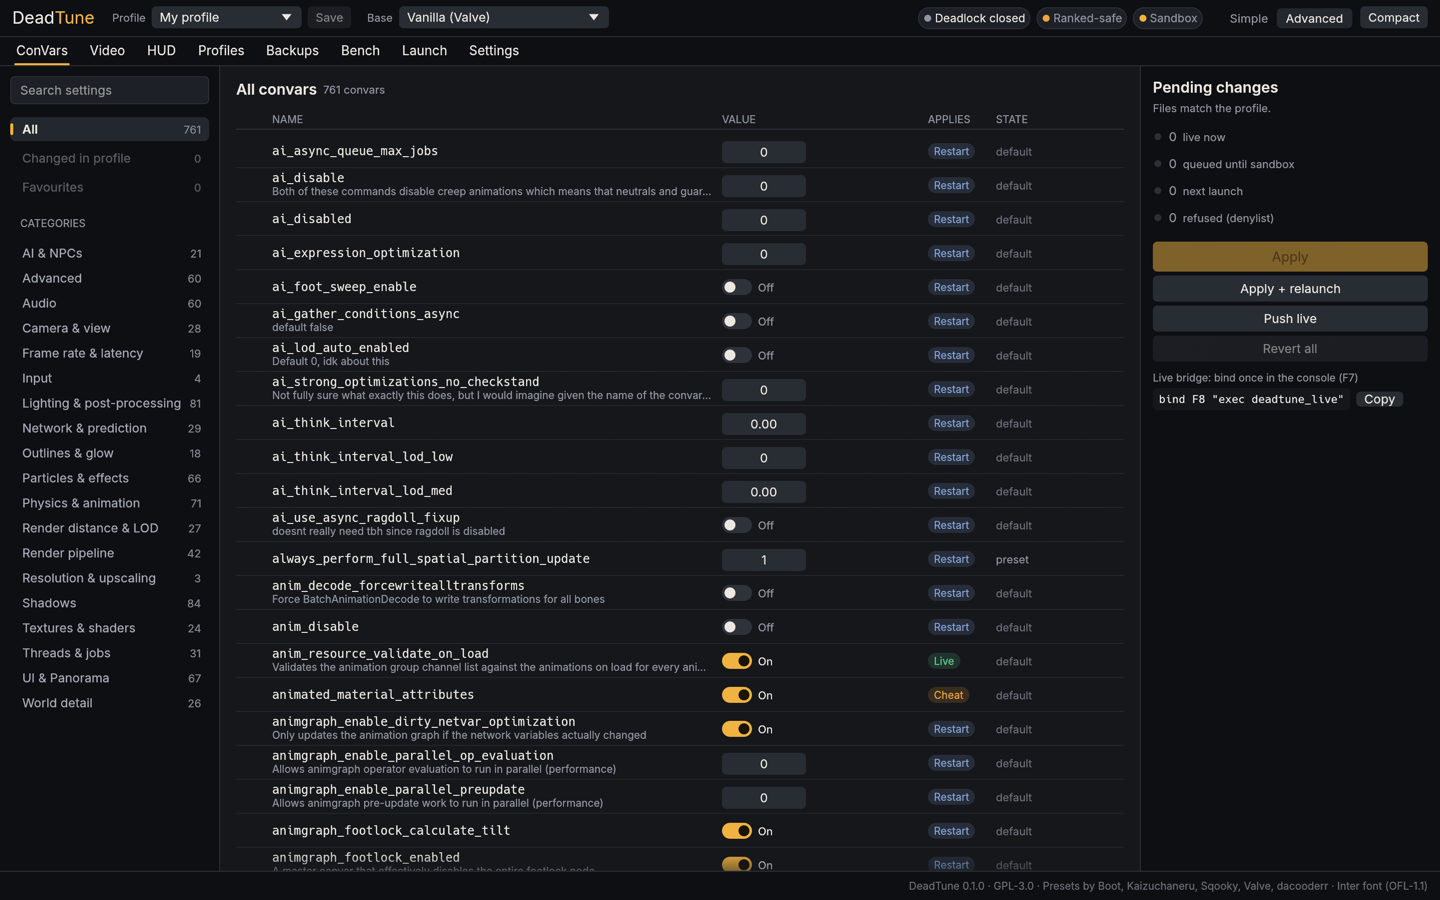
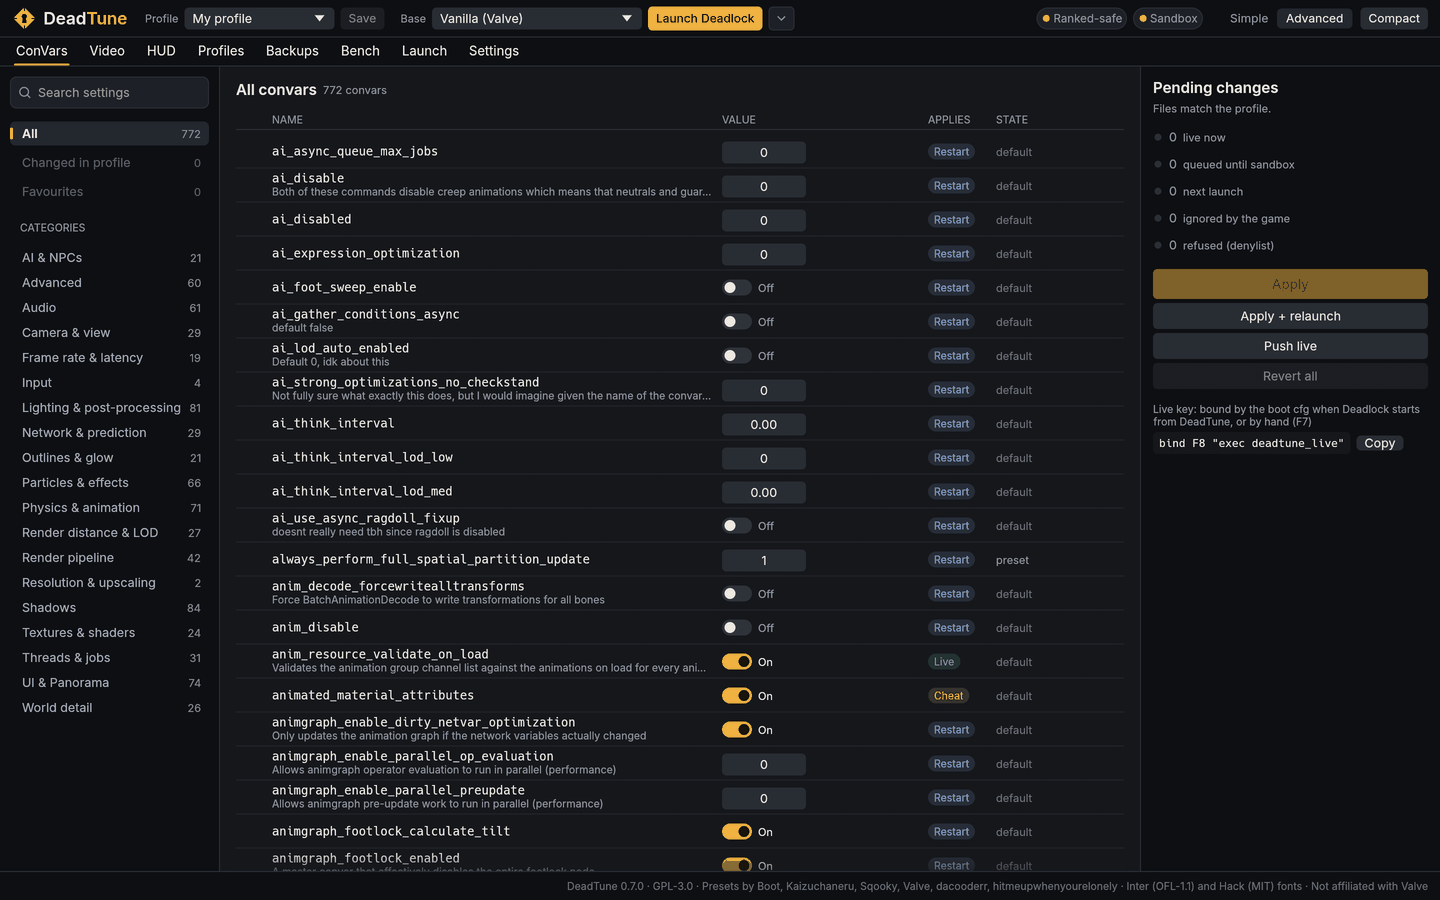
README for v0.7.0: new screenshots and every new feature
Retook all screenshots at 1440x900 (palette PNGs, about a third of the
old size) and added the Top bar, Minimap, Health bar, Addons and System
check pages. The text now covers SideLock, practice mode, the camera
and field of view card, launch options, the Top bar, Minimap (marker
sizes, apples and tunnels) and Health bar pages, the texture
downscaler, safe mode, System check, self-update, current counts and
download size, and credits the HUD ideas' authors.

The fake game archive now carries the HUD and health stylesheets, so
the HUD pages build on a fake install. testing-windows.md: section
numbers in order again after merges.

diff --git a/crates/dt-core/examples/fake_pak01.rs b/crates/dt-core/examples/fake_pak01.rs
@@ -3,7 +3,8 @@
 //! Sqooky's pak97 copied it, the game's empty particle, the Sinner's Sacrifice mask and
 //! model in their stock layout (made from the upstream pak like the unit tests do), a
 //! 512 px stand-in for the scope overlay, and the top bar's and minimap's stylesheets and
-//! layouts (the HUD stylesheet standing in for both stylesheets).
+//! layouts, and the HUD and health stylesheets (the HUD stylesheet standing in for every
+//! stylesheet).
 //!
 //! cargo run -p dt-core --example fake_pak01 -- <out pak01_dir.vpk>
 
@@ -13,6 +14,8 @@ use std::path::{Path, PathBuf};
 
 use dt_core::addons::{native_blur, native_particles, native_scope, native_sinner};
 use dt_core::hud::apples_tunnels::MINIMAP_LAYOUT;
+use dt_core::hud::elements::HUD_STYLE;
+use dt_core::hud::health_style::{HEALTH_CONTAINER_STYLE, HEALTH_STYLE};
 use dt_core::hud::minimap_colors::MINIMAP_STYLE;
 use dt_core::hud::resource::Resource;
 use dt_core::hud::topbar::{TOP_BAR_LAYOUT, TOP_BAR_STYLE};
@@ -120,6 +123,13 @@ fn main() -> Result<(), Box<dyn Error>> {
             std::fs::read(here("tests/fixtures/hud/hud_minimap_vanilla.vxml_c"))?,
         ),
     ]);
+    let mut files = files;
+    for style in [HUD_STYLE, HEALTH_STYLE, HEALTH_CONTAINER_STYLE] {
+        files.insert(
+            style.to_string(),
+            std::fs::read(here("tests/fixtures/hud/hud_vanilla.vcss_c"))?,
+        );
+    }
     std::fs::write(&out, vpk::write(&files))?;
     eprintln!("wrote {out} with {} entries", files.len());
     Ok(())

diff --git a/README.md b/README.md
@@ -9,10 +9,10 @@
 [![Platforms](https://img.shields.io/badge/platforms-Windows%20%7C%20Linux%20%7C%20Steam%20Deck-informational.svg)](#install)
 [![UI: egui](https://img.shields.io/badge/ui-egui%200.36-8A2BE2.svg)](https://github.com/emilk/egui)
 [![No injection](https://img.shields.io/badge/game%20process-untouched-success.svg)](#safety-first)
-[![Download 4.7 MB](https://img.shields.io/badge/download-4.7%20MB-lightgrey.svg)](#install)
+[![Download 6.2 MB](https://img.shields.io/badge/download-6.2%20MB-lightgrey.svg)](#install)
 [![Status: alpha](https://img.shields.io/badge/status-alpha-yellow.svg)](#status)
 
-<img src="docs/images/overview.png" alt="DeadTune overview: pick a preset, adjust the biggest FPS levers, apply" width="900">
+<img src="docs/images/overview.png" alt="DeadTune overview: pick a goal or preset, adjust the biggest FPS levers and the field of view, apply" width="900">
 
 </div>
 
@@ -28,19 +28,21 @@ DeadTune turns that into an app:
 - **See what each setting does** and what it costs, in plain words.
 - **Apply in one click.** Your original files are backed up first, and one more click puts everything back.
 - **Keep your setup after game updates.** DeadTune notices when Steam overwrites your config and offers to re-apply it.
-- **Move and resize the HUD**, which no ConVar can do.
+- **Make the HUD yours**: move and resize it, restyle the top bar, minimap and health bar. No ConVar can do that.
+- **Check your PC** for the Windows settings that quietly cost FPS.
 
 ## Features
 
 ### Performance tuning
 
-- **Eight community presets** to start from: Vanilla, Sqooky, Kaizuchaneru minimum spec and extreme low, Boot max FPS, OptiLock recommended and potato. Authors are credited in the app.
-- **Simple view** grouped the way players think: Display, Shadows, Lighting and effects, World detail, Performance. The biggest FPS wins sit on the Overview page.
-- **Advanced view** with every one of the **761 catalogued ConVars**, searchable, with type-aware controls, defaults, preset values and an impact rating.
+- **Nine community presets** to start from: Vanilla, Sqooky (stable and testing), Kaizuchaneru minimum spec and extreme low, Boot max FPS, OptiLock recommended and potato, and SideLock. Authors are credited in the app. SideLock's licence doesn't allow shipping it, so DeadTune downloads the author's file from GameBanana and checks it against a pinned hash.
+- **Simple view** grouped the way players think: Display, Shadows, Lighting and effects, World detail, Performance. The biggest FPS wins sit on the Overview page, next to a **Camera and field of view** card (field of view and wide view).
+- **Practice mode** for bots, sandbox and unranked: since the September 2026 update the game ignores the big shadow and fog ConVars in `gameinfo.gi`, so practice mode turns shadows, fog and batching down in the `SceneSystem` section instead, the way SideLock does. Matchmaking may refuse to queue while it is on; Ranked-safe mode puts the stock values back in one click.
+- **Advanced view** with every one of the **772 catalogued ConVars**, searchable, with type-aware controls, defaults, preset values and an impact rating.
 - **Honest apply classes.** Each setting is tagged *live*, *live in sandbox*, *needs restart* or *ignored* (the game no longer reads it from `gameinfo.gi`), so you know when a change takes effect and whether it does anything.
 - **Profiles** stored as small TOML files. Import and export Sqooky's `overrides.gi` format, so you can switch between his updater and DeadTune.
 
-### HUD editor
+### HUD, top bar, minimap and health bar
 
 <img src="docs/images/hud.png" alt="HUD editor: drag the minimap, top bar, ability and item slots on a preview" width="900">
 
@@ -51,6 +53,18 @@ DeadTune turns that into an app:
 - **Conflict warnings** when another HUD mod (QoL Lite, QoL Lock) replaces the same file.
 - **Top bar page** (experimental): fade, grey or darken enemies out of vision (idea by NA-45), dead hero look, portrait size and gap, team colours, compact or hidden clock, soul lead and rejuvenator rows, and optional spawn timers, urn soul lead and purchase popups (ideas by Stovven and bonclide), all previewed live on a mock of the bar.
 
+<img src="docs/images/topbar.png" alt="Top bar page: presets, a live mock of the bar, enemies out of vision, clock, portraits and team colours" width="900">
+
+- **Minimap page**: the game's own enemy colour setting, per-icon colours with colour-blind and high-contrast presets, marker sizes for heroes, objectives and shops, map opacity and a frameless minimap (ideas from BetterMap by gfkm), plus **Apples and tunnels**: dots for apple spawns and nearby tunnel entrances for Rem, Mo & Krill, Rat King and Calico (idea by FesamAyt). Experimental.
+
+<img src="docs/images/minimap.png" alt="Minimap page: enemy colour, marker sizes, map opacity, apples and tunnels, per-icon colours" width="900">
+
+- **Health bar page** (experimental): Vanilla, Clean and Big number presets, health number size, orange when hurt, easy-to-read max health, no shaking at low health, with a preview at full, hurt and low health (ideas from bytenode's health bar mods, after Gerimboca and .Kaiz).
+
+<img src="docs/images/health.png" alt="Health bar page: Big number preset, size slider, colour by health and a preview at three health levels" width="900">
+
+All of these are written from scratch against your installed game files and go into the same single HUD addon; the mods that inspired them are credited in the app and stay their authors' work.
+
 ### Performance addons
 
 The community's performance mods, each as one DeadTune-owned pak file that comes off with one click:
@@ -58,21 +72,37 @@ The community's performance mods, each as one DeadTune-owned pak file that comes
 - **Rebuilt from your game files, method by the original author.** The screen-edge particle disabler and the world clutter remover (Laund, after his Clutter Be Gone packs), the UI blur disabler (Sqooky, with Bytenode), the Sinner's Sacrifice light fix (HoppCX) and the Vindicta scope downscale (Tamara Mochaccinae) are made from your own `pak01` on Apply, so they never go stale: after a game update DeadTune rebuilds them. No download.
 - **Pick what to hide.** The particle disabler is split into groups (low-health vignette, burns, hero debuffs); the clutter remover covers city steam and smoke, Graves and Walker effects, or everything for offline play; the blur disabler covers HUD and menus separately; the scope size is yours to choose.
 - **The optimized soul container** by Jayie is a hand-made model, so it stays a download from Sqooky's repository (or an import of the file).
-- **Checked before and after.** Every pak is read back against your game files before it goes into the game folder, and the next launch is a trial: if Deadlock fails to start, DeadTune removes the new addon and tells you.
+- **Low VRAM texture downscaler** (after Sqooky's Low VRAM pack): builds a copy of the game's textures at half or a quarter of their size from your own game files, for graphics cards that run out of memory. Originals are never modified.
+- **Checked before and after.** Every pak is read back against your game files before it goes into the game folder, and the next launch is a trial: if Deadlock fails to start, DeadTune removes the new addon and tells you. A safe-mode launch from the menu beside Launch takes every DeadTune pak out until you restore them.
+
+<img src="docs/images/addons.png" alt="Addons page: particle disabler, blur disabler, Sinner's light fix, scope downscale, soul container, texture downscaler, clutter remover" width="900">
+
+### System check
+
+A plain-language check of everything that affects your FPS, with what to do for each problem:
+
+- **Deadlock files, HUD and addons, DeadTune**: the game install, its settings files, the HUD addon, mods from other tools, and your backups.
+- **Windows and hardware** (read only, DeadTune never changes Windows settings): power plan, graphics card choice on laptops, monitor refresh rate, Game Bar background recording, RAM speed and sticks, overlays, graphics driver age, Game Mode, memory integrity, windowed game optimizations, GPU scheduling, SSD or hard drive, free disk space, and Steam processing shaders in the background.
+- **Steam launch options** that override DeadTune's settings, read from Steam's own config.
+- Each warning links to the right Windows Settings page. **Copy report** gives a plain-text report for bug reports.
+
+<img src="docs/images/system-check.png" alt="System check: a summary, then each problem with why it matters, what to do and a link to the Windows setting" width="900">
 
 ### Testing and comparing
 
 - **Live changes** for settings the engine accepts at runtime, through an exec file bound to a key (default `F8`), the network console where it works, or the clipboard.
 - **Apply and relaunch** for restart-only settings: DeadTune closes the game, writes the files and starts it again.
+- **Launch options** in the menu beside Launch: DirectX 11 or Vulkan, skip the intro video, the console window and your own extras, each checked against the options this game build actually knows.
 - **Benchmarks**: import PresentMon (Windows) or MangoHud (Linux) captures and compare average FPS, 1% and 0.1% lows between runs and profiles.
 - **Mini window**: a compact always-on-top mode with search, favourites and Push, for use next to the game in borderless windowed.
 
 ### Everyday convenience
 
 - **Finds the game** through Steam on its own, including extra libraries and Flatpak Steam on Linux.
-- **Update detection** through the Steam build id and file hashes.
+- **Game update detection** through the Steam build id and file hashes.
+- **Updates itself**: the sidebar shows the version and whether a new one is out; updates are signed and checked before they install.
 - **Power profiles**: pick a profile for plugged in and one for battery.
-- **`doctor`** self test for a new machine. It writes nothing into the game.
+- **System check** (and `deadtune-cli doctor`) for a new machine. It writes nothing into the game.
 - **Command-line twin** (`deadtune-cli`) with the same core, for scripts and Linux users.
 
 <img src="docs/images/shadows.png" alt="Shadows page with toggles, quality steps and a details panel" width="900">
@@ -96,7 +126,7 @@ DeadTune only works through files, launch options and the official console.
 
 ## Install
 
-DeadTune is a single executable (about 8 MB, a 4.7 MB download). There is no installer and no runtime to install.
+DeadTune is a single executable (about 9 MB, a 6.2 MB download). There is no installer and no runtime to install.
 
 | Platform | Status |
 |---|---|
@@ -118,9 +148,13 @@ deadtune-cli status                      game, power, file state, HUD addon, pen
 deadtune-cli catalog <search>            search ConVars by name or description
 deadtune-cli diff --profile laptop.toml  show what apply would do
 deadtune-cli apply --profile laptop.toml write the profile and push live changes
-deadtune-cli ranked-safe                 stock ConVars, HUD addon removed
+deadtune-cli ranked-safe                 stock ConVars and SceneSystem values, HUD addon removed
+deadtune-cli practice on|off             practice mode (shadows, fog, batching) in a profile
+deadtune-cli presets fetch|import        download or import a remote preset (SideLock)
+deadtune-cli launch-options check        which launch options this game build knows
 deadtune-cli restore                     restore or list backups
 deadtune-cli hud apply|remove|status     manage the HUD addon
+deadtune-cli addons list|enable|verify   performance addons
 deadtune-cli bench import|list|compare   benchmark captures
 deadtune-cli watch                       report game updates and overwritten files
 ```
@@ -188,10 +222,11 @@ No Deadlock install? `scripts/fake-install.sh` builds a fake game folder to run 
 
 DeadTune is in **alpha**. The core, CLI and GUI work against a fake install and the test suite. In-game checks are still open for:
 
-- whether the game accepts the generated HUD addon, and which HUD edits apply in matches;
+- the experimental HUD pages (top bar, minimap styling, apples and tunnels, health bar), which are marked as such in the app;
+- whether matchmaking refuses to queue with practice mode on;
 - which live console paths work on Windows without `-tools`.
 
-In progress: a local texture downscaler that builds a low-VRAM texture addon from your own game files, and a phone remote (`--features remote`) for tweaking while the game stays fullscreen.
+In progress: a health percentage and a horizontal health bar, and a phone remote (`--features remote`) for tweaking while the game stays fullscreen.
 
 ## Credits
 
@@ -201,6 +236,8 @@ DeadTune stands on the work of the Deadlock tuning community:
 - [dacooderr/OptiLock](https://github.com/dacooderr/OptiLock): presets including `video.txt` tuning
 - Kaizuchaneru and Boot: minimum-spec and max-FPS presets
 - [Laund](https://gamebanana.com/mods/722853): the screen-edge particle disabler and Clutter Be Gone, whose effect lists DeadTune's particle cleanup uses
+- hitmeupwhenyourelonely: the SideLock config, downloaded from its GameBanana page
+- HUD ideas: NA-45, Stovven and bonclide (top bar), [gfkm](https://gamebanana.com/mods/664456) (BetterMap: minimap sizes and opacity), FesamAyt (apples and tunnels), [bytenode](https://gamebanana.com/mods/653671) with Gerimboca and .Kaiz (health bar styles). DeadTune writes its own versions; the original mods are their authors' work.
 - [Deadlock Mod Manager](https://github.com/deadlock-mod-manager/deadlock-mod-manager): reference for KeyValues handling and Steam paths
 - [ValveResourceFormat](https://github.com/ValveResourceFormat/ValveResourceFormat): the reference for compiled resource and VPK formats
 - [Inter](https://rsms.me/inter/) by Rasmus Andersson (SIL OFL 1.1), the UI font

diff --git a/docs/testing-windows.md b/docs/testing-windows.md
@@ -112,7 +112,7 @@ How it works now: DeadTune writes `cfg\deadtune_boot.cfg` (binds F8, sets the pr
 
 ### 4. Ranked
 - [ ] **P0-3**: with modified ConVars, can you queue matchmaking? With Ranked-safe mode on? With only the HUD addon installed (**H0-4**)?
-- [ ] Practice mode (section 15): is queueing refused with it on, and does Ranked-safe mode make queueing work again?
+- [ ] Practice mode (section 14): is queueing refused with it on, and does Ranked-safe mode make queueing work again?
 
 ### 5. Restart loop
 - [ ] Apply + relaunch (Advanced): closes `deadlock.exe`, starts it through Steam, the countdown runs and "restart pending" clears.
@@ -247,7 +247,7 @@ SideLock is CC BY-NC-ND, so DeadTune never ships it; it downloads the author's f
 - [ ] **S-4 Review**: put any other `gameinfo.gi` (say a copy of your game's) into the Import box: the card says the file differs, "Show the N changed settings" lists them, nothing changes until **Accept**; **Discard** drops it.
 - [ ] **S-5 CLI**: `tools\deadtune-cli.exe presets` shows the licence and state; `presets fetch sidelock`, then `profile new side.toml --base sidelock` and `diff --profile side.toml` work.
 
-### 15. Practice mode (Performance page)
+### 14. Practice mode (Performance page)
 
 Since the September 2026 update the game ignores the big shadow and fog ConVars in `gameinfo.gi`. Practice mode edits the `SceneSystem` section instead, the way the SideLock config (GameBanana 722944) does: shadows (`CSMCascadeResolution`, the shadow atlas and texture sizes, `DynamicShadowResolution` to 0), fog (`VolumetricFog`, `CubemapFog`, `NonTexturedGradientFog` to 0) and batching (`LayerBatchThresholdFullsort 20`, `DisableLateAllocatedTransformBuffer 1`, `MinimumLateAllocatedVertexCacheBufferSizeMB 64`). The game's matchmaking check refuses "unsupported changes" to `Engine2`, `MaterialSystem2`, `NetworkSystem`, `Particles`, `RenderSystem`, `SceneSystem` and `WorldRenderer`, so we expect queueing to be refused while it is on. Nothing here could be proven on the Mac. DeadTune only ever touches keys it wrote itself: before it writes a practice value it records what the key held (`practice.toml` in its data folder), and switching the group off puts that back. Keys it never wrote are left exactly as they are, so a hand-installed SideLock `SceneSystem` survives a normal Apply. Ranked-safe mode is the explicit "make me queueable" action and resets all of them to Valve's stock values, whoever wrote them; leaving Ranked-safe returns to the profile's state.
 
@@ -263,8 +263,7 @@ Setup: a `gameinfo.gi` that is otherwise stock (Vanilla preset or Ranked-safe on
 - [ ] **PM-8 SideLock stays yours**: with the SideLock `gameinfo.gi` installed by hand and practice mode off, press Apply on any preset. The `SceneSystem` block is untouched (its zeros and the three batching lines are still there). System check's "Matchmaking sections" row lists those keys plus SideLock's other edits (for example `RenderSystem/SwapChainSampleableDepth`), says Ranked-safe mode resets the shadow, fog and batching keys and points to Verify integrity for the rest. Turn practice mode on and off again: the block is still SideLock's, because DeadTune never changed those values. Does queueing fail in that state too?
 - [ ] **PM-9 CLI**: `tools\deadtune-cli.exe practice on --fog --profile my.toml`, then `diff --profile my.toml` lists the three fog keys under "practice mode", `apply --profile my.toml --yes` writes them, `ranked-safe --yes` restores stock, `practice off --profile my.toml` drops the table from the profile.
 
-### 14. Send the diagnostic report
-### 13. System check page
+### 15. System check page
 
 - [ ] The page opens with a summary ("Everything looks good" or "N things need your attention"), then a card per problem with "What to do", then every check grouped as Deadlock files, HUD and addons, Windows and hardware, DeadTune. "Check again" reruns; "Copy report" copies the diagnostic report.
 - [ ] **Steam launch options**: in Steam set Deadlock's launch options to `+fps_max 60`, press Check again: a warning names `+fps_max 60`. With only `+exec deadtune_boot` (or `-dx11`) it passes and shows the options. Clear them afterwards.
@@ -272,11 +271,11 @@ Setup: a `gameinfo.gi` that is otherwise stock (Vanilla preset or Ranked-safe on
 - [ ] **Free disk space**: shows the free space on the game's drive; it warns under 10 GB (check the number against Explorer).
 - [ ] **Steam background work**: while Steam shows "Processing Vulkan shaders" (or `fossilize_replay.exe` runs in Task Manager) it warns; otherwise it passes.
 
-### 14. Send the diagnostic report
+### 16. Send the diagnostic report
 
 Whenever something misbehaves, and once when everything works, press **Copy report** on the System check page (or run `tools\deadtune-cli.exe doctor --report > report.txt`) and send the text along with your notes. It holds the DeadTune version, the `SearchPaths` block of `gameinfo.gi`, the files in `game\citadel\addons` with sizes and who owns each, DeadTune's addon and HUD records, the launch guard state, the last launch arguments, the last 80 lines of `console.log` and the read-back of every installed pak. It contains no account data; paths show your Windows user name.
 
-### 14. Launch options and Vulkan
+### 17. Launch options and Vulkan
 
 The menu beside **Launch Deadlock** > **Launch options** (or the Launch tab in the advanced view) holds the renderer choice, Skip intro video, the console window, extra options, and a check of every option against the game's own list (`research/configs/OptimizationLock/launch_options.txt`).
 
@@ -287,7 +286,7 @@ The menu beside **Launch Deadlock** > **Launch options** (or the Launch tab in t
 - [ ] **L-5 Shader cache**: the first Vulkan start compiles shaders, so expect long loading and stutter in the first match or two. Note how long the first start took to the main menu and whether the second start is faster. Don't judge Vulkan FPS on the first match.
 - [ ] **L-6 FPS vs default**: on the same map and spot (a bot match, measured the way section 8 does), compare average and 1% low FPS for Default and Vulkan, after Vulkan's shader cache is warm. Note GPU model and driver version with the numbers.
 
-### 10. Developer checks (repo checkout on Windows)
+### 18. Developer checks (repo checkout on Windows)
 - [ ] `cargo test --workspace --all-features` passes, including the Windows-only `push_uses_crlf_on_windows`.
 - [ ] With `core.autocrlf=true`, a fresh clone still passes the catalog drift test.
 - [ ] `cargo test -p dt-core --features fetch -- --ignored fetch` downloads every preset, SideLock included, and SideLock still matches its pinned sha256.
